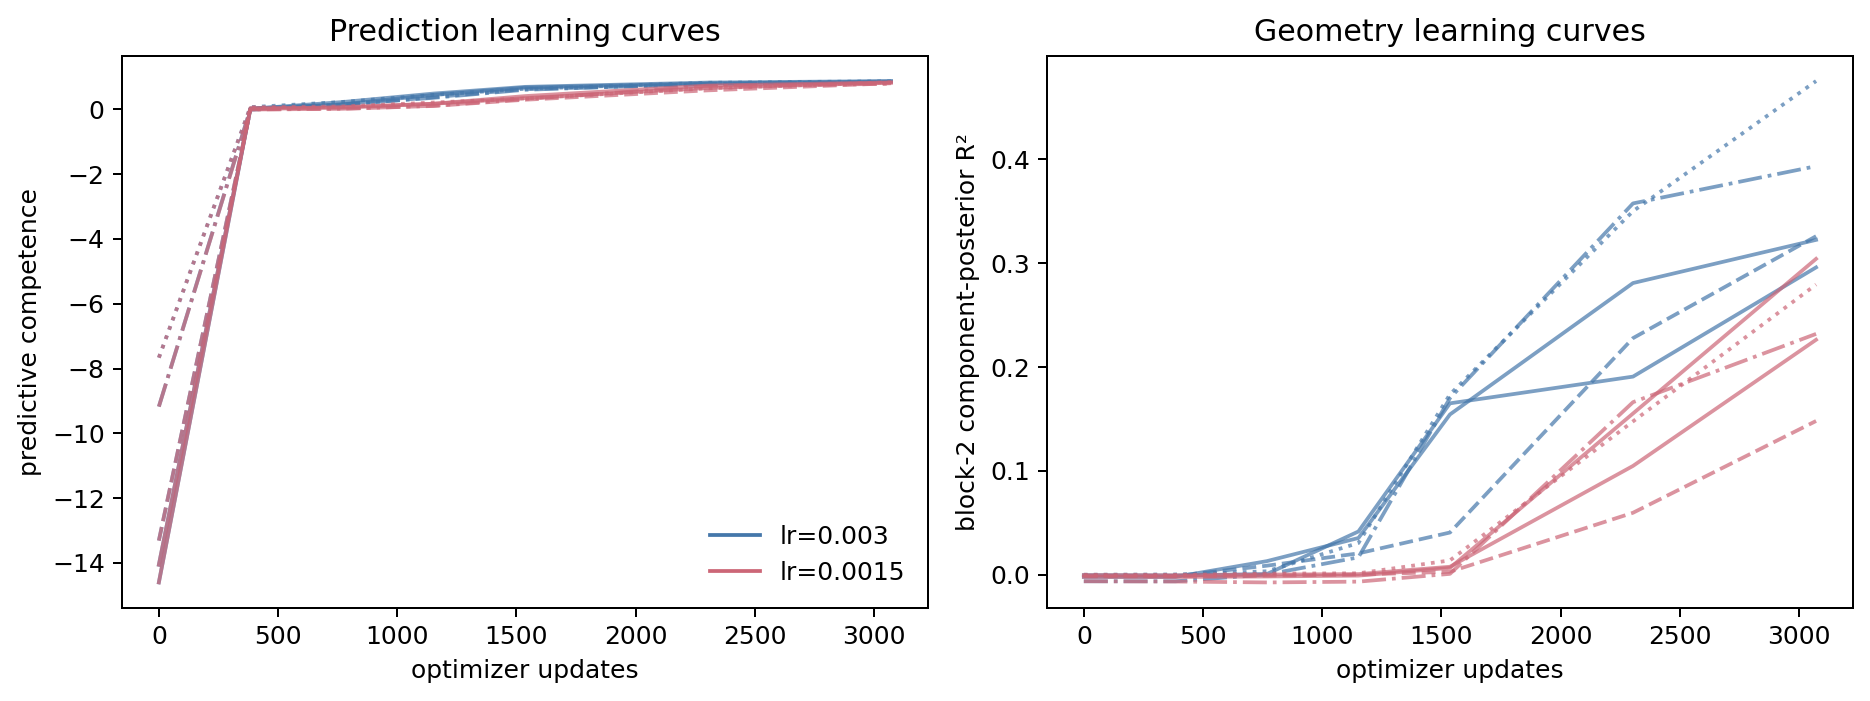
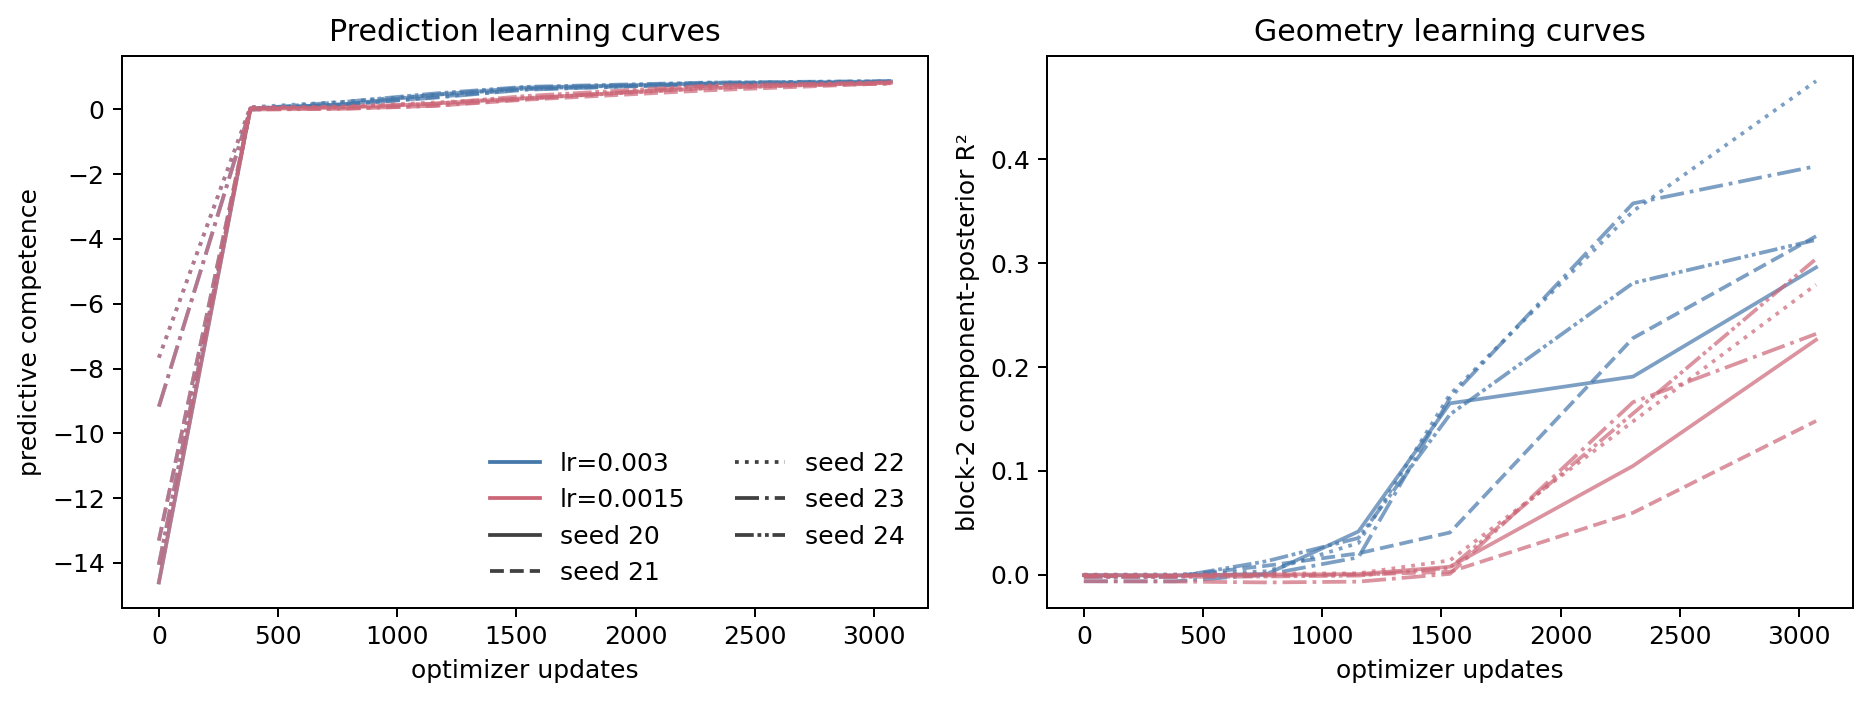
fix: harden threshold release validation

diff --git a/tests/test_mess3_threshold.py b/tests/test_mess3_threshold.py
@@ -1,3 +1,4 @@
+import copy
 import json
 from pathlib import Path
 
@@ -6,6 +7,7 @@ import torch
 import matplotlib.image as mpimg
 
 from nonergodic_memory.mess3_threshold import (
+    _rate_config,
     analyze_threshold,
     replace_threshold_records,
     run_threshold_probes,
@@ -105,6 +107,27 @@ def test_threshold_grid_rejects_duplicate_and_missing_cells(tiny_threshold_grid)
         validate_threshold_grid(config, training[1:], probes[6:])
 
 
+@pytest.mark.parametrize(
+    ("target", "field", "value", "message"),
+    [
+        ("training", "config_sha256", "wrong", "rate provenance"),
+        ("probes", "probe_sequence_overlap", 1, "overlap"),
+        ("probes", "component_posterior_r2", float("nan"), "non-finite"),
+    ],
+)
+def test_threshold_grid_rejects_invalid_provenance_and_metrics(
+    tiny_threshold_grid, target: str, field: str, value, message: str
+) -> None:
+    _, config, training, probes = tiny_threshold_grid
+    altered_training = copy.deepcopy(training)
+    altered_probes = copy.deepcopy(probes)
+    rows = altered_training if target == "training" else altered_probes
+    rows[0][field] = value
+
+    with pytest.raises(ValueError, match=message):
+        validate_threshold_grid(config, altered_training, altered_probes)
+
+
 def test_threshold_keyed_replacement_preserves_unselected_cells(tmp_path: Path) -> None:
     path = tmp_path / "training.jsonl"
     existing = [
@@ -152,13 +175,16 @@ def _synthetic_threshold_grid() -> tuple[dict, list[dict], list[dict]]:
                 training.append(
                     {
                         "record_type": "threshold_training",
+                        "sampler": "vectorized",
                         "base_config_sha256": base_digest,
-                        "config_sha256": f"rate-{rate}",
+                        "config_sha256": config_digest(_rate_config(config, rate)),
                         "seed": seed,
                         "learning_rate": rate,
                         "step": step,
                         "competence": competence,
                         "kl_exact": 1.0 - competence,
+                        "nll": 1.0,
+                        "uniform_kl": 1.0,
                     }
                 )
                 for site in ("block_1", "block_2", "final_norm"):
@@ -166,15 +192,22 @@ def _synthetic_threshold_grid() -> tuple[dict, list[dict], list[dict]]:
                         probes.append(
                             {
                                 "record_type": "threshold_probe",
+                                "sampler": "vectorized",
                                 "base_config_sha256": base_digest,
-                                "config_sha256": f"rate-{rate}",
+                                "config_sha256": config_digest(_rate_config(config, rate)),
                                 "seed": seed,
                                 "learning_rate": rate,
                                 "step": step,
                                 "site": site,
                                 "control": control,
                                 "component_posterior_r2": geometry if control == "none" else 0.0,
+                                "component_accuracy": 0.5,
+                                "conditional_state_accuracy": 0.5,
+                                "state_posterior_r2": 0.0,
+                                "joint_belief_mse": 0.1,
                                 "joint_belief_r2": 0.5 * geometry if control == "none" else 0.0,
+                                "joint_distance_r2": 0.0,
+                                "probe_sequence_overlap": 0,
                             }
                         )
     return config, training, probes
@@ -219,12 +252,29 @@ def test_threshold_analysis_marks_posthoc_unavailable_with_one_trained_step() ->
     base_digest = config_digest(config)
     for row in [*training, *probes]:
         row["base_config_sha256"] = base_digest
+        row["config_sha256"] = config_digest(
+            _rate_config(config, float(row["learning_rate"]))
+        )
 
     summary = analyze_threshold(config, training, probes)
 
     sensitivity = summary["posthoc_post_initialization_sensitivity"]
     assert sensitivity["status"] == "unavailable"
     assert "two distinct" in sensitivity["reason"]
+
+
+def test_threshold_analysis_preserves_primary_when_posthoc_competence_is_constant() -> None:
+    config, training, probes = _synthetic_threshold_grid()
+    for row in training:
+        if row["step"] > 0:
+            row["competence"] = 0.5
+
+    summary = analyze_threshold(config, training, probes)
+
+    assert "competence_to_step_mse_ratio" in summary
+    sensitivity = summary["posthoc_post_initialization_sensitivity"]
+    assert sensitivity["status"] == "unavailable"
+    assert "varying finite inputs" in sensitivity["reason"]
 
 
 def test_threshold_figures_are_generated_from_complete_raw_grid(tmp_path: Path) -> None:

diff --git a/src/nonergodic_memory/mess3_threshold.py b/src/nonergodic_memory/mess3_threshold.py
@@ -110,6 +110,20 @@ def validate_threshold_grid(config: dict, training: list[dict], probes: list[dic
     seeds = {int(seed) for seed in config["threshold"]["seeds"]}
     rates = {float(rate) for rate in config["threshold"]["learning_rates"]}
     steps = {int(step) for step in config["train"]["checkpoint_steps"]}
+    rate_digests = {
+        rate: config_digest(_rate_config(config, rate))
+        for rate in rates
+    }
+    for row in training:
+        if row.get("record_type") != "threshold_training" or row.get("sampler") != "vectorized":
+            raise ValueError("threshold training records have incompatible identity")
+    for row in probes:
+        if row.get("record_type") != "threshold_probe" or row.get("sampler") != "vectorized":
+            raise ValueError("threshold probe records have incompatible identity")
+    for row in [*training, *probes]:
+        rate = float(row["learning_rate"])
+        if row.get("config_sha256") != rate_digests.get(rate):
+            raise ValueError("threshold records have incompatible rate provenance")
     expected_training = {
         (seed, rate, step) for seed in seeds for rate in rates for step in steps
     }
@@ -121,6 +135,12 @@ def validate_threshold_grid(config: dict, training: list[dict], probes: list[dic
         raise ValueError("duplicate threshold training cells")
     if set(training_keys) != expected_training:
         raise ValueError("threshold training grid is incomplete or contains unexpected cells")
+    training_metrics = ("competence", "kl_exact", "nll", "uniform_kl")
+    if any(
+        not all(np.isfinite(float(row.get(metric, float("nan")))) for metric in training_metrics)
+        for row in training
+    ):
+        raise ValueError("threshold training records contain non-finite metrics")
     sites = [
         *(f"block_{depth + 1}" for depth in range(int(config["model"]["layers"]))),
         "final_norm",
@@ -145,6 +165,22 @@ def validate_threshold_grid(config: dict, training: list[dict], probes: list[dic
         raise ValueError("duplicate threshold probe cells")
     if set(probe_keys) != expected_probes:
         raise ValueError("threshold probe grid is incomplete or contains unexpected cells")
+    if any(int(row.get("probe_sequence_overlap", -1)) != 0 for row in probes):
+        raise ValueError("threshold probe records contain sequence overlap")
+    probe_metrics = (
+        "component_accuracy",
+        "component_posterior_r2",
+        "conditional_state_accuracy",
+        "state_posterior_r2",
+        "joint_belief_mse",
+        "joint_belief_r2",
+        "joint_distance_r2",
+    )
+    if any(
+        not all(np.isfinite(float(row.get(metric, float("nan")))) for metric in probe_metrics)
+        for row in probes
+    ):
+        raise ValueError("threshold probe records contain non-finite metrics")
 
 
 def _quadratic_predictions(
@@ -244,11 +280,18 @@ def analyze_threshold(config: dict, training: list[dict], probes: list[dict]) ->
             "reason": "requires at least two distinct post-initialization steps",
         }
     else:
-        post_initialization = {
-            "status": "post_hoc_not_registered",
-            "selection": "step > 0",
-            **_loso_comparison(post_initialization_rows),
-        }
+        try:
+            post_initialization = {
+                "status": "post_hoc_not_registered",
+                "selection": "step > 0",
+                **_loso_comparison(post_initialization_rows),
+            }
+        except ValueError as error:
+            post_initialization = {
+                "status": "unavailable",
+                "selection": "step > 0",
+                "reason": str(error),
+            }
     shuffled = [
         abs(float(row["component_posterior_r2"]))
         for row in probes

diff --git a/tests/test_cli.py b/tests/test_cli.py
@@ -9,6 +9,7 @@ import yaml
 from nonergodic_memory.figures import _load_records, generate_figures
 from nonergodic_memory.experiment import load_config, train_one
 from mess3_diagnose import _replace_keyed_jsonl, _training_results_complete
+from mess3_threshold import _training_records_complete
 
 
 ROOT = Path(__file__).parents[1]
@@ -78,6 +79,65 @@ def test_training_result_cache_rejects_conflicting_provenance(tmp_path: Path) ->
     path.write_text("".join(json.dumps(row) + "\n" for row in rows))
 
     assert not _training_results_complete(path, "digest", config, [10], ["fresh"])
+
+
+def test_threshold_training_cache_rejects_wrong_rate_provenance(tmp_path: Path) -> None:
+    config = {
+        "data": {"sampler": "vectorized"},
+        "train": {"checkpoint_steps": [0]},
+        "threshold": {"seeds": [6], "learning_rates": [0.01]},
+    }
+    from nonergodic_memory.experiment import config_digest
+
+    row = {
+        "base_config_sha256": config_digest(config),
+        "config_sha256": "wrong",
+        "record_type": "threshold_training",
+        "sampler": "vectorized",
+        "seed": 6,
+        "learning_rate": 0.01,
+        "step": 0,
+        "competence": 0.0,
+        "kl_exact": 0.1,
+        "nll": 1.0,
+        "uniform_kl": 0.1,
+    }
+    path = tmp_path / "threshold.jsonl"
+    path.write_text(json.dumps(row) + "\n")
+
+    assert not _training_records_complete(path, config, [6], [0.01])
+
+
+def test_threshold_training_cache_accepts_other_configured_rate_rows(tmp_path: Path) -> None:
+    config = {
+        "data": {"sampler": "vectorized"},
+        "train": {"checkpoint_steps": [0]},
+        "threshold": {"seeds": [6], "learning_rates": [0.01, 0.005]},
+    }
+    from nonergodic_memory.experiment import config_digest
+    from nonergodic_memory.mess3_threshold import _rate_config
+
+    rows = []
+    for rate in config["threshold"]["learning_rates"]:
+        rows.append(
+            {
+                "base_config_sha256": config_digest(config),
+                "config_sha256": config_digest(_rate_config(config, rate)),
+                "record_type": "threshold_training",
+                "sampler": "vectorized",
+                "seed": 6,
+                "learning_rate": rate,
+                "step": 0,
+                "competence": 0.0,
+                "kl_exact": 0.1,
+                "nll": 1.0,
+                "uniform_kl": 0.1,
+            }
+        )
+    path = tmp_path / "threshold.jsonl"
+    path.write_text("".join(json.dumps(row) + "\n" for row in rows))
+
+    assert _training_records_complete(path, config, [6], [0.01])
 
 
 def test_entrypoints_have_help() -> None:

diff --git a/src/mess3_threshold.py b/src/mess3_threshold.py
@@ -5,6 +5,7 @@ from __future__ import annotations
 
 import argparse
 import json
+import math
 from collections import Counter
 from pathlib import Path
 
@@ -78,7 +79,24 @@ def _training_records_complete(
         return False
     try:
         rows = [json.loads(line) for line in path.read_text().splitlines() if line.strip()]
-        if any(row.get("base_config_sha256") != config_digest(config) for row in rows):
+        base_digest = config_digest(config)
+        expected_rate_digests = {
+            float(rate): config_digest(_rate_config(config, float(rate)))
+            for rate in config["threshold"]["learning_rates"]
+        }
+        required_metrics = ("competence", "kl_exact", "nll", "uniform_kl")
+        if any(
+            row.get("base_config_sha256") != base_digest
+            or row.get("record_type") != "threshold_training"
+            or row.get("sampler") != "vectorized"
+            or row.get("config_sha256")
+            != expected_rate_digests.get(float(row.get("learning_rate", float("nan"))))
+            or not all(
+                math.isfinite(float(row.get(metric, float("nan"))))
+                for metric in required_metrics
+            )
+            for row in rows
+        ):
             return False
         counts = Counter(
             (int(row["seed"]), float(row["learning_rate"]), int(row["step"]))

diff --git a/src/nonergodic_memory/mess3_threshold_figures.py b/src/nonergodic_memory/mess3_threshold_figures.py
@@ -42,7 +42,10 @@ def generate_threshold_figures(
     seeds = sorted({int(row["seed"]) for row in training})
     rates = sorted({float(row["learning_rate"]) for row in training}, reverse=True)
     colors = {rates[0]: "#4477AA", rates[1]: "#CC6677"}
-    styles = {seed: ("-", "--", ":", "-.")[index % 4] for index, seed in enumerate(seeds)}
+    line_styles = ("-", "--", ":", "-.", (0, (5, 1, 1, 1, 1, 1)))
+    if len(seeds) > len(line_styles):
+        raise ValueError("threshold figure supports at most five traceable seed styles")
+    styles = {seed: line_styles[index] for index, seed in enumerate(seeds)}
 
     fig, axes = plt.subplots(1, 2, figsize=(10.5, 4.0))
     for rate in rates:
@@ -92,7 +95,11 @@ def generate_threshold_figures(
     rate_handles = [
         Line2D([0], [0], color=colors[rate], label=f"lr={rate:g}") for rate in rates
     ]
-    axes[0].legend(handles=rate_handles, frameon=False)
+    seed_handles = [
+        Line2D([0], [0], color="0.25", linestyle=styles[seed], label=f"seed {seed}")
+        for seed in seeds
+    ]
+    axes[0].legend(handles=[*rate_handles, *seed_handles], frameon=False, ncol=2)
     learning_path = _save(fig, destination / "mess3_threshold_learning.png")
 
     fig, axes = plt.subplots(1, 2, figsize=(11.5, 4.5))

diff --git a/tests/test_hmm.py b/tests/test_hmm.py
@@ -10,6 +10,27 @@ from nonergodic_memory.data import (
     make_source_mixture,
     make_two_source_mixture,
 )
+from nonergodic_memory.data.hmm import _sample_categorical_rows
+
+
+class _FixedDraws:
+    def __init__(self, draws: list[float]):
+        self.draws = np.asarray(draws, dtype=np.float64)
+
+    def random(self, shape: tuple[int, int]) -> np.ndarray:
+        assert shape == (len(self.draws), 1)
+        return self.draws[:, None]
+
+
+def test_categorical_rows_use_right_sided_inverse_cdf_at_boundaries() -> None:
+    probabilities = np.array(
+        [[0.0, 0.5, 0.5], [0.25, 0.25, 0.5], [0.0, 0.0, 1.0]]
+    )
+    sampled = _sample_categorical_rows(
+        probabilities, _FixedDraws([0.0, 0.5, np.nextafter(1.0, 0.0)])
+    )
+
+    np.testing.assert_array_equal(sampled, [1, 2, 2])
 
 
 def test_mess3_factorization_matches_published_labeled_operators() -> None:

diff --git a/src/nonergodic_memory/data/hmm.py b/src/nonergodic_memory/data/hmm.py
@@ -16,8 +16,9 @@ IntArray = NDArray[np.int64]
 def _sample_categorical_rows(probabilities: FloatArray, rng: np.random.Generator) -> IntArray:
     """Draw one categorical sample from each row of a probability matrix."""
     cumulative = np.cumsum(probabilities, axis=1)
+    cumulative[:, -1] = 1.0
     draws = rng.random((len(probabilities), 1))
-    return np.sum(draws > cumulative, axis=1, dtype=np.int64)
+    return np.sum(draws >= cumulative, axis=1, dtype=np.int64)
 
 
 def _probabilities(value: ArrayLike, name: str, axis: int = -1) -> FloatArray:
